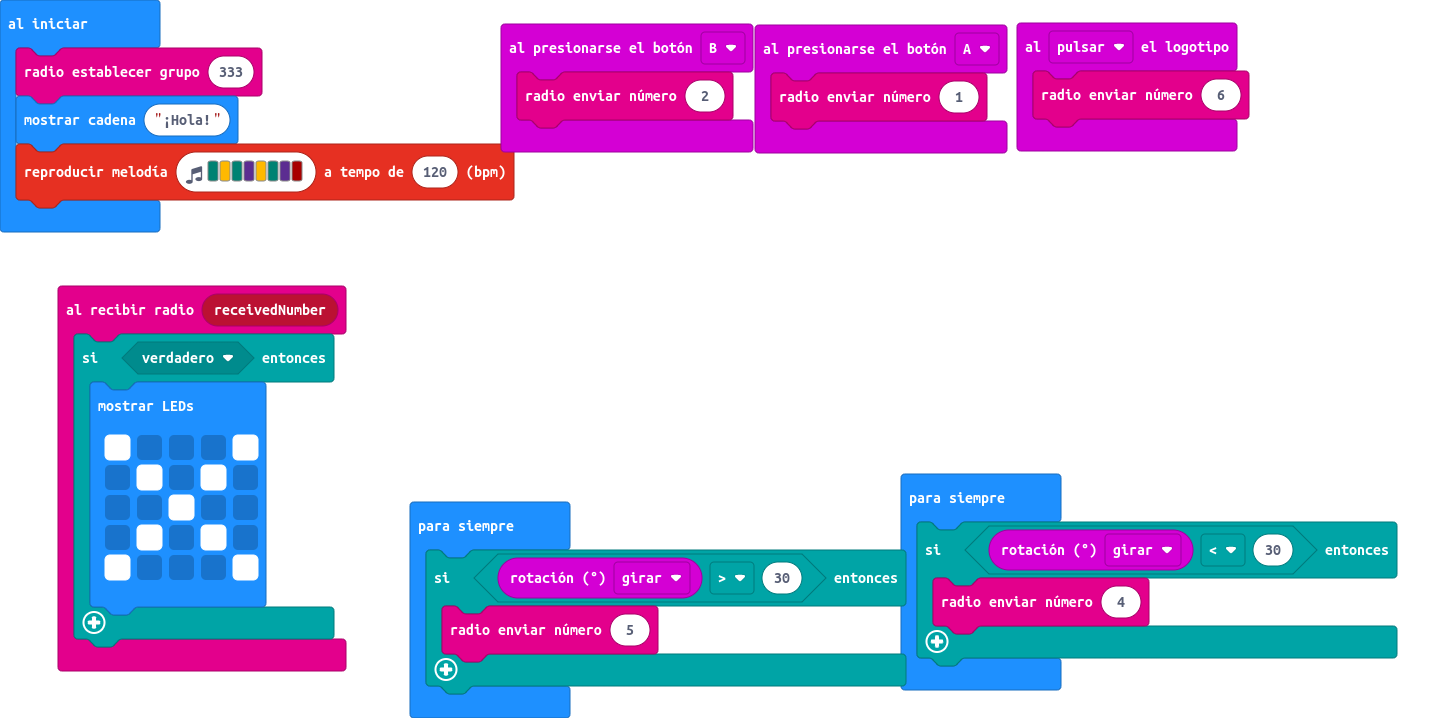
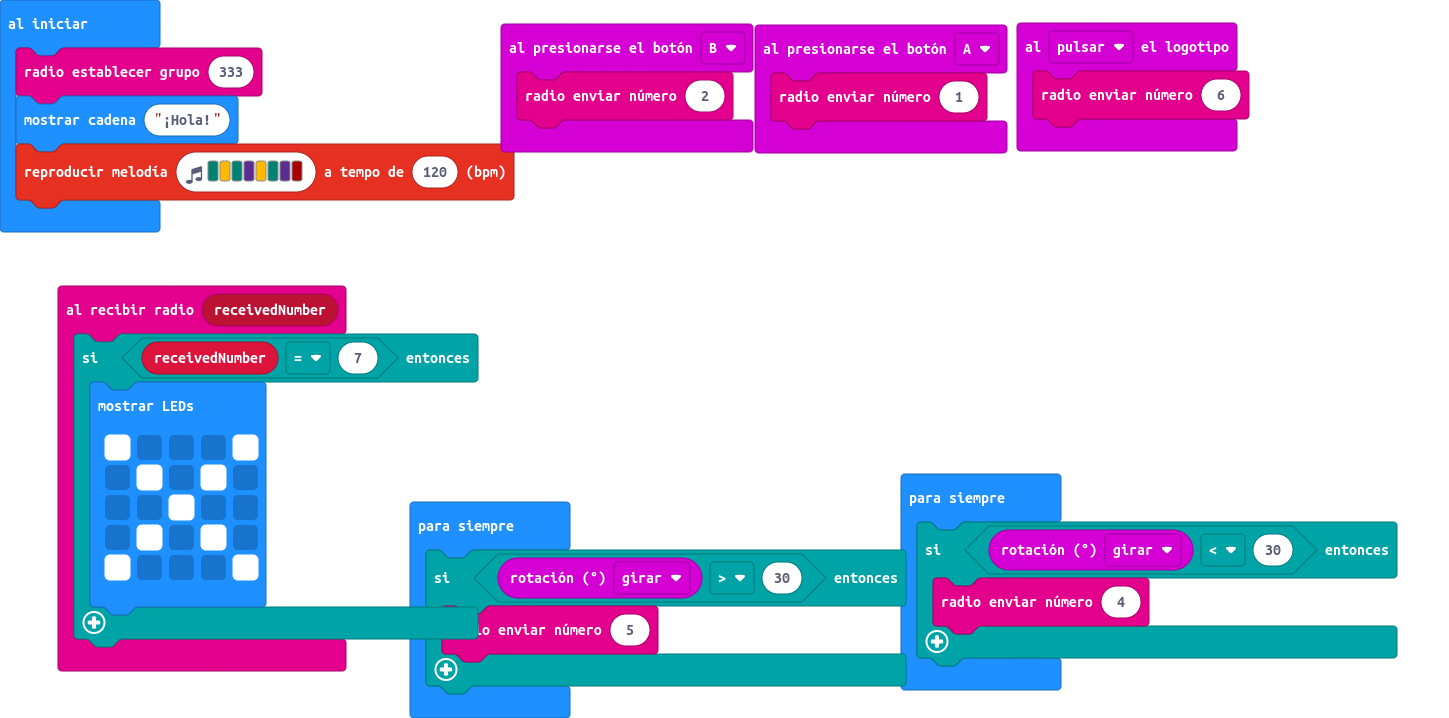
Actualizar main.blocks, main.ts

Changed region(s): [[0.0621, 0.4596, 0.3416, 0.5515], [0.2174, 0.8273, 0.3416, 0.8886]]

diff --git a/main.ts b/main.ts
@@ -1,5 +1,5 @@
 radio.onReceivedNumber(function (receivedNumber) {
-    if (true) {
+    if (receivedNumber == 7) {
         basic.showLeds(`
             # . . . #
             . # . # .
